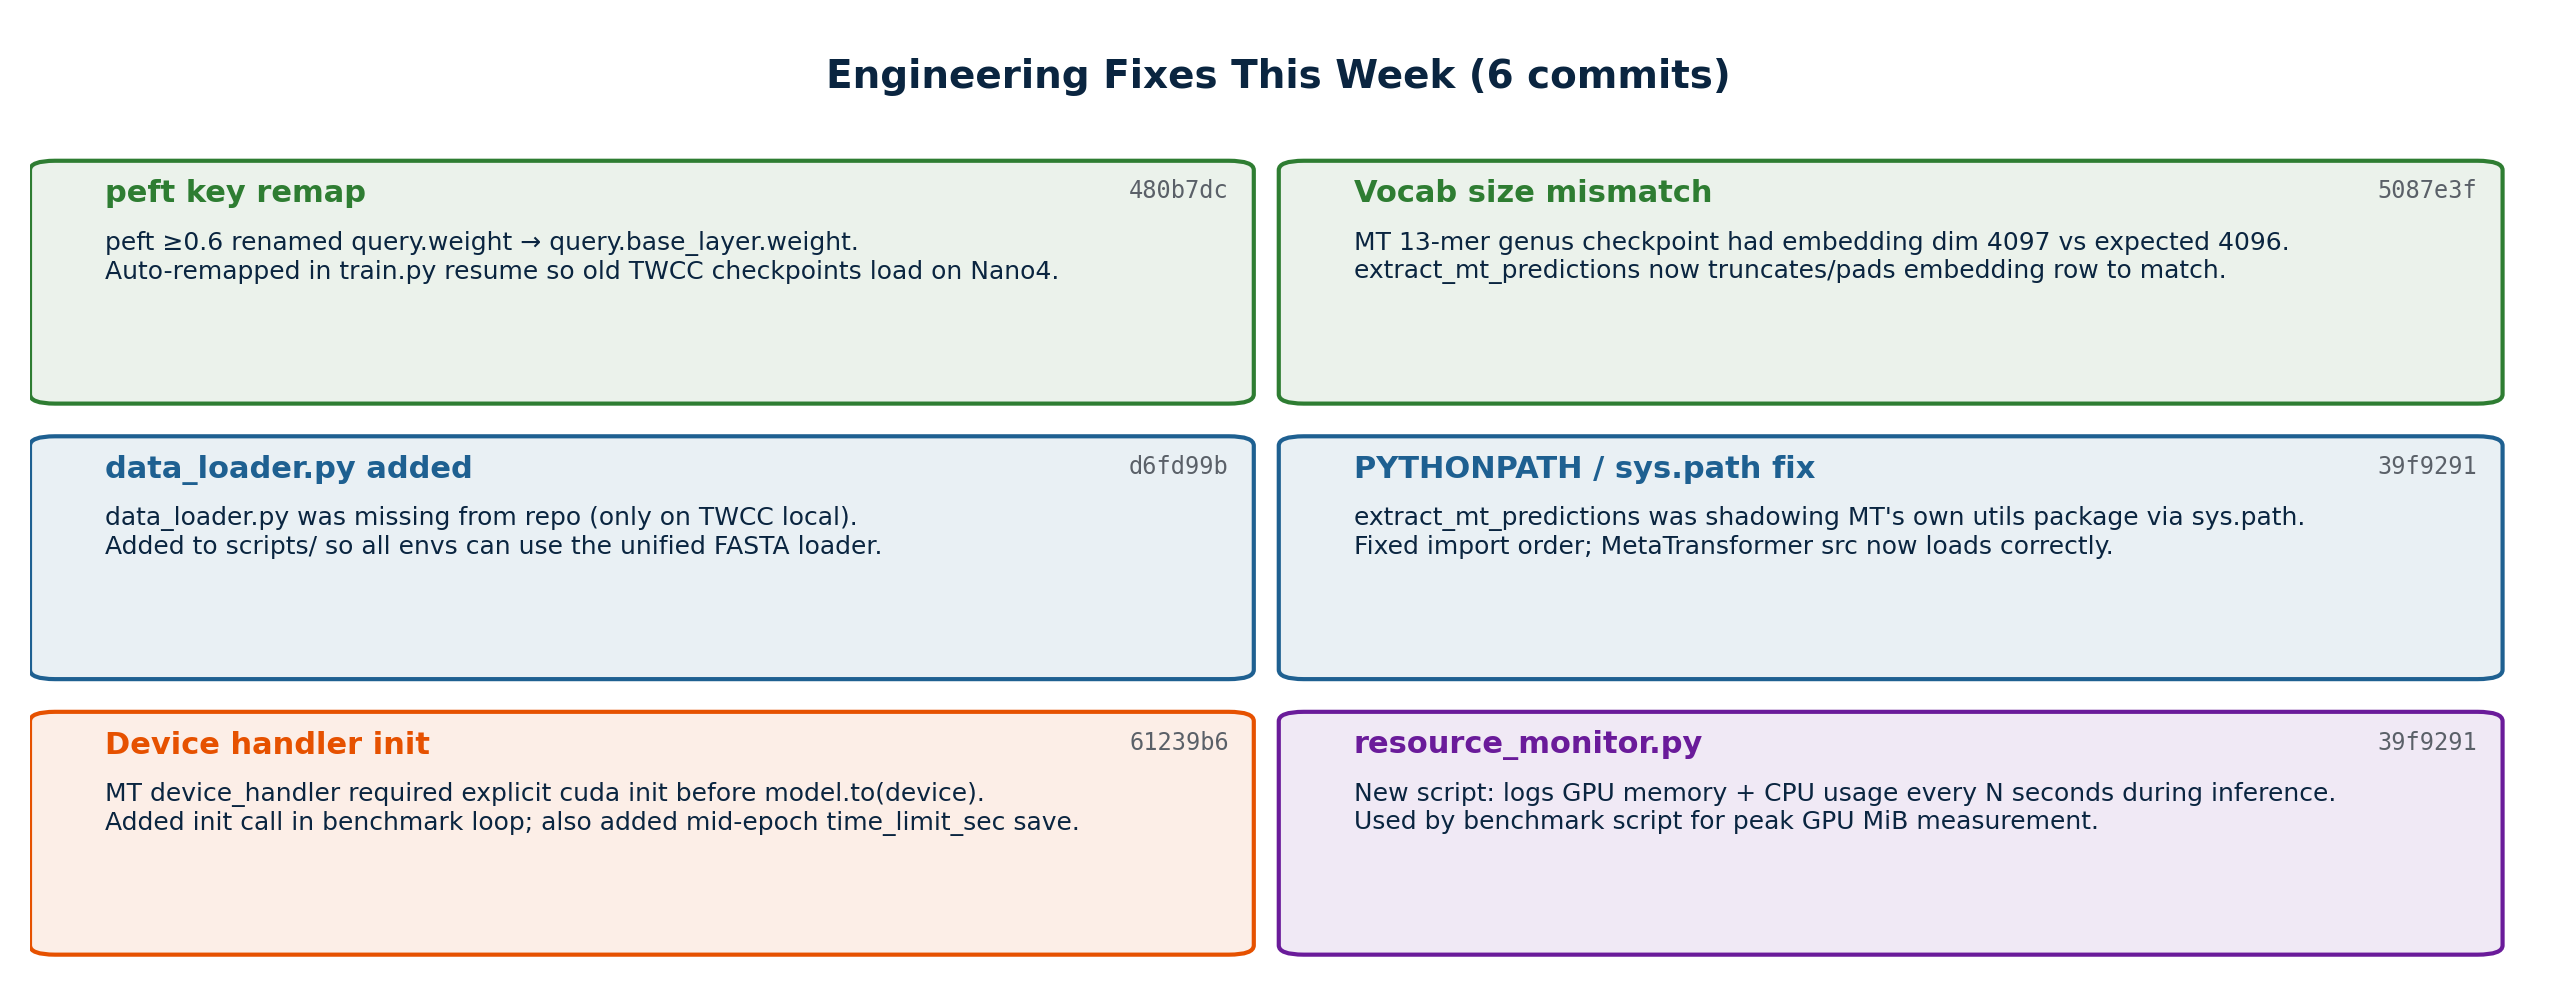
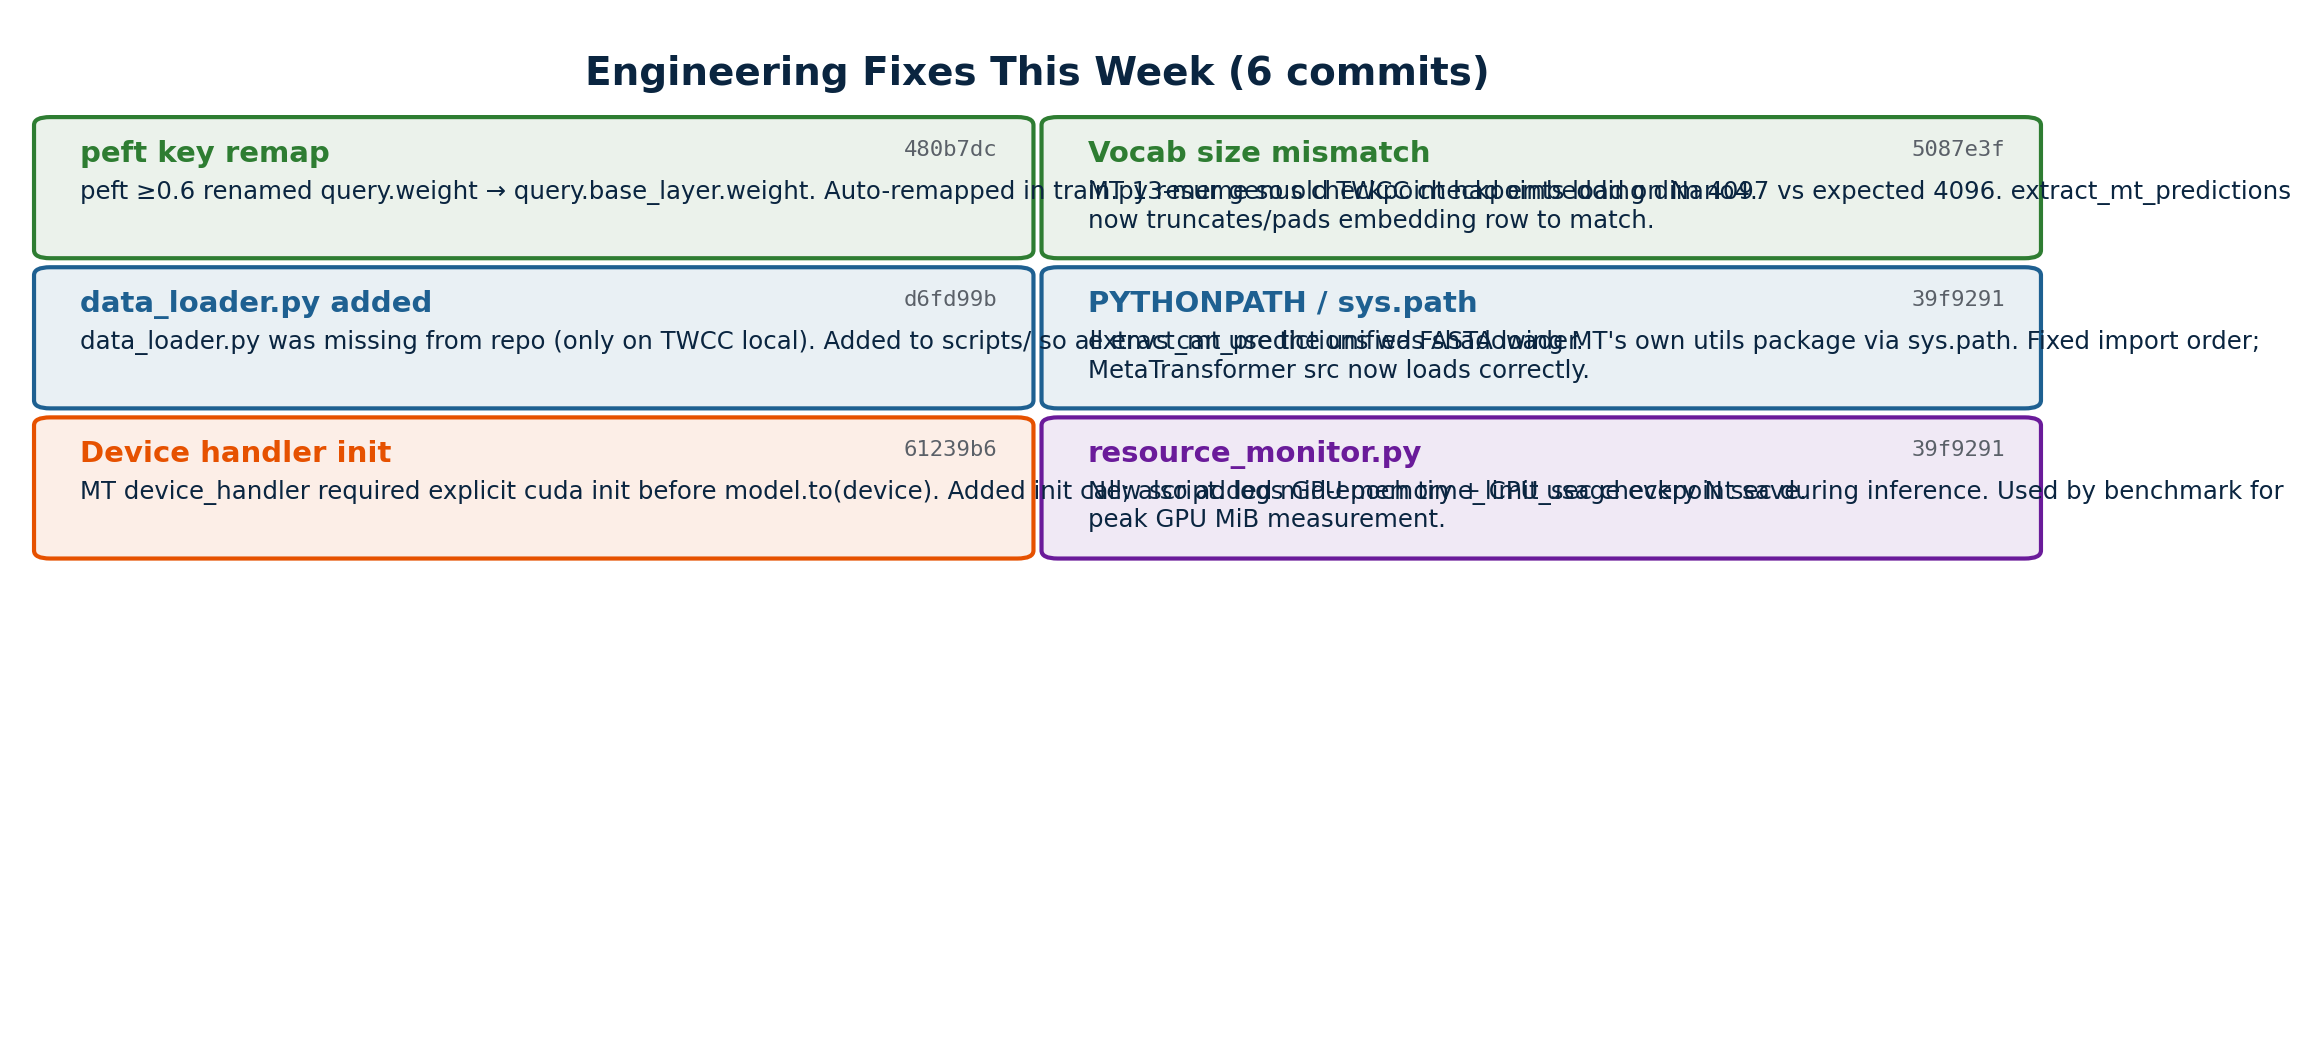
Fix slide figures: wider spacing in timeline/engineering/decisions

diff --git a/docs/slides/make_meeting_2026_0609.py b/docs/slides/make_meeting_2026_0609.py
@@ -48,29 +48,36 @@ plt.rcParams.update({"font.family":"DejaVu Sans","font.size":11,
 # ═══════════════════════════════════════════════════════════════════════════════
 
 def fig_timeline():
-    fig, ax = plt.subplots(figsize=(13, 3.8))
-    ax.set_xlim(0, 13); ax.set_ylim(0, 4.2); ax.axis("off")
-    ax.add_patch(Rectangle((0.4, 1.9), 12.2, 0.12, facecolor=NAVY))
+    # Alternating up/down labels to prevent horizontal crowding
+    fig, ax = plt.subplots(figsize=(13, 5.0))
+    ax.set_xlim(0, 13); ax.set_ylim(0, 5.5); ax.axis("off")
+    ax.add_patch(Rectangle((0.3, 2.5), 12.4, 0.13, facecolor=NAVY))
 
+    # (x, date, label, color, up=True means label above the line)
     events = [
-        (0.7,  "6/2",  "Advisor\nmeeting\n(deck 0602)", TEAL),
-        (2.2,  "6/2",  "Nano4 env\nsetup started", TEAL),
-        (3.5,  "6/3",  "Sanity check\nPASSED ✓\n(Job 71907)", GREEN),
-        (5.0,  "6/3",  "peft compat\nfix applied", ORANGE),
-        (6.3,  "6/5",  "DNABERT-2\nNano4 script\nready", GREEN),
-        (7.7,  "6/6",  "MT benchmark\nscript ready\n(6 models)", GREEN),
-        (9.0,  "6/6",  "vocab / device\nbug fixes", ORANGE),
-        (10.5, "6/7",  "data_loader +\nresource_monitor\nadded", GREEN),
-        (12.0, "6/9",  "TODAY\nFire P0\njobs", GOLD),
+        (0.8,  "6/2",  "Advisor meeting\n(deck 0602)", TEAL,   True),
+        (2.4,  "6/2",  "Nano4 env\nsetup started",     TEAL,   False),
+        (4.0,  "6/3",  "Sanity check\nPASSED ✓",       GREEN,  True),
+        (5.6,  "6/3-5","peft / vocab /\ndevice fixes",  ORANGE, False),
+        (7.2,  "6/5",  "DNABERT-2\nscript ready",      GREEN,  True),
+        (8.8,  "6/6",  "MT benchmark\nscript ready",   GREEN,  False),
+        (10.4, "6/7",  "data_loader +\nresource_monitor", TEAL, True),
+        (12.0, "6/9",  "TODAY\nFire P0", GOLD, False),
     ]
-    for x, date, label, color in events:
-        ax.scatter(x, 1.96, s=180, color=color, zorder=4, edgecolor="white", linewidth=2)
-        ax.text(x, 2.65, date, ha="center", fontsize=10, fontweight="bold", color=color)
-        ax.text(x, 1.35, label, ha="center", fontsize=8, color=NAVY, va="top")
+    for x, date, label, color, up in events:
+        ax.scatter(x, 2.565, s=200, color=color, zorder=4, edgecolor="white", linewidth=2)
+        if up:
+            ax.text(x, 3.05, date,  ha="center", fontsize=10, fontweight="bold", color=color)
+            ax.text(x, 3.45, label, ha="center", fontsize=9,  color=NAVY, va="bottom")
+            ax.plot([x, x], [2.62, 3.0], color=color, lw=1, alpha=0.5)
+        else:
+            ax.text(x, 2.10, date,  ha="center", fontsize=10, fontweight="bold", color=color)
+            ax.text(x, 1.95, label, ha="center", fontsize=9,  color=NAVY, va="top")
+            ax.plot([x, x], [2.50, 2.15], color=color, lw=1, alpha=0.5)
 
-    ax.text(6.5, 3.9, "Progress Timeline · 6/2 advisor meeting → 6/9 (today)",
+    ax.text(6.5, 5.2, "Progress Timeline · 6/2 advisor meeting → 6/9 (today)",
             ha="center", fontsize=13, fontweight="bold", color=NAVY)
-    plt.savefig(TMP/"timeline.png"); plt.close()
+    plt.savefig(TMP/"timeline.png", bbox_inches="tight"); plt.close()
 
 
 def fig_nano4_status():
@@ -194,8 +201,7 @@ def fig_dnabert2_plan():
     ax2.text(64.45+0.3, -0.7, "NT-v2\nbaseline", fontsize=8, color=TEAL, alpha=0.7)
     ax2.text(99, 3.1, "* estimate", fontsize=8, color=ORANGE)
 
-    plt.tight_layout()
-    plt.savefig(TMP/"dnabert2_plan.png"); plt.close()
+    plt.savefig(TMP/"dnabert2_plan.png", bbox_inches="tight"); plt.close()
 
 
 def fig_mt_benchmark():
@@ -267,102 +273,113 @@ def fig_mt_benchmark():
 
 
 def fig_engineering():
-    fig, ax = plt.subplots(figsize=(13, 5))
+    fig, ax = plt.subplots(figsize=(13, 6.5))
     ax.axis("off"); ax.set_xlim(0,1); ax.set_ylim(0,1)
-    ax.text(0.5, 0.97, "Engineering Fixes This Week (6 commits)", ha="center",
+    ax.text(0.5, 0.975, "Engineering Fixes This Week (6 commits)", ha="center",
             fontsize=14, fontweight="bold", color=NAVY, va="top")
 
     fixes = [
-        (GREEN,  "peft key remap",
-                 "480b7dc",
-                 "peft ≥0.6 renamed query.weight → query.base_layer.weight.\n"
+        (GREEN,  "peft key remap",        "480b7dc",
+                 "peft ≥0.6 renamed query.weight → query.base_layer.weight. "
                  "Auto-remapped in train.py resume so old TWCC checkpoints load on Nano4."),
-        (GREEN,  "Vocab size mismatch",
-                 "5087e3f",
-                 "MT 13-mer genus checkpoint had embedding dim 4097 vs expected 4096.\n"
+        (GREEN,  "Vocab size mismatch",   "5087e3f",
+                 "MT 13-mer genus checkpoint had embedding dim 4097 vs expected 4096. "
                  "extract_mt_predictions now truncates/pads embedding row to match."),
-        (TEAL,   "data_loader.py added",
-                 "d6fd99b",
-                 "data_loader.py was missing from repo (only on TWCC local).\n"
+        (TEAL,   "data_loader.py added",  "d6fd99b",
+                 "data_loader.py was missing from repo (only on TWCC local). "
                  "Added to scripts/ so all envs can use the unified FASTA loader."),
-        (TEAL,   "PYTHONPATH / sys.path fix",
-                 "39f9291",
-                 "extract_mt_predictions was shadowing MT's own utils package via sys.path.\n"
+        (TEAL,   "PYTHONPATH / sys.path", "39f9291",
+                 "extract_mt_predictions was shadowing MT's own utils package via sys.path. "
                  "Fixed import order; MetaTransformer src now loads correctly."),
-        (ORANGE, "Device handler init",
-                 "61239b6",
-                 "MT device_handler required explicit cuda init before model.to(device).\n"
-                 "Added init call in benchmark loop; also added mid-epoch time_limit_sec save."),
-        (PURPLE, "resource_monitor.py",
-                 "39f9291",
-                 "New script: logs GPU memory + CPU usage every N seconds during inference.\n"
-                 "Used by benchmark script for peak GPU MiB measurement."),
+        (ORANGE, "Device handler init",   "61239b6",
+                 "MT device_handler required explicit cuda init before model.to(device). "
+                 "Added init call; also added mid-epoch time_limit_sec checkpoint save."),
+        (PURPLE, "resource_monitor.py",   "39f9291",
+                 "New script: logs GPU memory + CPU usage every N sec during inference. "
+                 "Used by benchmark for peak GPU MiB measurement."),
     ]
 
-    cols = [(0.01, 0.5), (0.51, 1.00)]
+    # 2-column layout with generous spacing
+    ITEM_H   = 0.125   # normalized height per item box
+    ROW_GAP  = 0.025   # gap between rows
+    ROW_STEP = ITEM_H + ROW_GAP
+    TOP_Y    = 0.905   # y of first row top
+
+    cols = [(0.01, 0.49), (0.51, 0.99)]
     for i, (color, title, commit, body) in enumerate(fixes):
         col_x, col_end = cols[i % 2]
         row = i // 2
-        y_top = 0.83 - row * 0.295
-        w = col_end - col_x - 0.02
-        ax.add_patch(FancyBboxPatch((col_x, y_top-0.22), w, 0.24,
-                                     boxstyle="round,pad=0.01",
-                                     facecolor=color+"18", edgecolor=color, linewidth=1.5))
-        ax.text(col_x+0.02, y_top+0.01, title, fontsize=11, color=color,
-                fontweight="bold", va="top")
-        ax.text(col_end-0.02, y_top+0.01, commit, fontsize=8.5, color=GRAY,
-                fontweight="normal", va="top", ha="right", family="monospace")
-        ax.text(col_x+0.02, y_top-0.045, body, fontsize=9, color=NAVY, va="top")
+        y_top = TOP_Y - row * ROW_STEP
+        w = col_end - col_x
 
-    plt.tight_layout()
-    plt.savefig(TMP/"engineering.png"); plt.close()
+        ax.add_patch(FancyBboxPatch((col_x, y_top - ITEM_H), w, ITEM_H,
+                                     boxstyle="round,pad=0.008",
+                                     facecolor=color+"18", edgecolor=color, linewidth=1.5))
+        # Title + commit hash on same line
+        ax.text(col_x+0.015, y_top - 0.015, title, fontsize=10.5, color=color,
+                fontweight="bold", va="top")
+        ax.text(col_end - 0.01, y_top - 0.015, commit, fontsize=8, color=GRAY,
+                fontweight="normal", va="top", ha="right", family="monospace")
+        # Body (single line, no \n)
+        ax.text(col_x+0.015, y_top - 0.055, body, fontsize=8.8, color=NAVY,
+                va="top", wrap=True)
+
+    plt.savefig(TMP/"engineering.png", bbox_inches="tight"); plt.close()
 
 
 def fig_decisions():
-    fig, ax = plt.subplots(figsize=(13, 5.5))
+    fig, ax = plt.subplots(figsize=(13, 6.5))
     ax.axis("off"); ax.set_xlim(0,1); ax.set_ylim(0,1)
-    ax.text(0.5, 0.97, "Decision Board · 6/9", ha="center",
+    ax.text(0.5, 0.975, "Decision Board · 6/9", ha="center",
             fontsize=14, fontweight="bold", color=NAVY, va="top")
 
-    sections = [
-        ("RESOLVED", GREEN, [
-            ("TWCC budget crisis",
-             "Nano4 H200 free trial covers all pending compute.\n"
-             "TWCC top-up NOT needed for thesis experiments."),
-            ("Nano4 onboarding",
-             "Sanity check passed (Job 71907). Pipeline identical to TWCC.\n"
-             "All DNABERT-2 + MT benchmark jobs can run here."),
-        ]),
-        ("PENDING — need advisor input", ORANGE, [
-            ("Q1: DNABERT-1 50M",
-             "Extremely slow: 11.7 hr/epoch → ~350 dev jobs for 30 epochs.\n"
-             "Recommendation: cancel. 5M checkpoint (61.78% RC TTA) sufficient for thesis."),
-            ("Q2: MT 13-mer hier retraining",
-             "Taiwana-2 checkpoint corrupted. ~1-2 days on V100 to retrain.\n"
-             "Adds +2-3 pp row to Table 4.29. Decision before 6/15 defense."),
-            ("Q3: HMP real-dataset inference",
-             "Download SRR072232 mock community (~1-2 GB), run NT-v2 sp_v4.\n"
-             "Adds real-world validation section. Journal paper priority?"),
-        ]),
+    # Each item: (title, body_line1, body_line2_or_None, color)
+    resolved = [
+        ("✓  TWCC budget crisis",
+         "Nano4 H200 free trial covers all pending compute — TWCC top-up NOT needed.",
+         None, GREEN),
+        ("✓  Nano4 onboarding",
+         "Sanity check PASSED (Job 71907). Pipeline identical to TWCC baseline (17.83%).",
+         None, GREEN),
+    ]
+    pending = [
+        ("Q1  DNABERT-1 50M",
+         "11.7 hr/epoch → ~350 dev jobs. Recommend: cancel.",
+         "5M checkpoint (61.78% RC TTA) is sufficient for thesis comparison.", ORANGE),
+        ("Q2  MT 13-mer hier retraining",
+         "Checkpoint corrupted on Taiwana-2. ~1-2 days V100 to retrain.",
+         "Adds +2-3 pp to Table 4.29. Decide before 6/15 defense.", ORANGE),
+        ("Q3  HMP real-dataset inference",
+         "Download SRR072232 mock community (~1-2 GB), run NT-v2 sp_v4.",
+         "Pearson r vs known abundance → real-world validation for journal.", ORANGE),
     ]
 
-    y = 0.87
-    for section_title, color, items in sections:
-        ax.add_patch(Rectangle((0, y-0.02), 1, 0.03, facecolor=color+"33", edgecolor="none"))
-        ax.text(0.02, y-0.005, section_title, fontsize=11, color=color,
-                fontweight="bold", va="center")
-        y -= 0.05
-        for title, body in items:
-            ax.add_patch(FancyBboxPatch((0.02, y-0.095), 0.96, 0.1,
-                                         boxstyle="round,pad=0.01",
-                                         facecolor=color+"12", edgecolor=color+"66", linewidth=1))
-            ax.text(0.05, y-0.015, title, fontsize=10.5, color=NAVY, fontweight="bold")
-            ax.text(0.05, y-0.048, body, fontsize=9.5, color=GRAY)
-            y -= 0.115
-        y -= 0.02
+    ITEM_H  = 0.115
+    ITEM_GAP = 0.015
+    STEP    = ITEM_H + ITEM_GAP
+    HDR_H   = 0.045
 
-    plt.tight_layout()
-    plt.savefig(TMP/"decisions.png"); plt.close()
+    def draw_section(title, color, items, y_start):
+        ax.add_patch(Rectangle((0, y_start - HDR_H), 1, HDR_H,
+                                facecolor=color+"33", edgecolor="none"))
+        ax.text(0.02, y_start - HDR_H/2, title, fontsize=11, color=color,
+                fontweight="bold", va="center")
+        y = y_start - HDR_H - ITEM_GAP
+        for t, b1, b2, c in items:
+            ax.add_patch(FancyBboxPatch((0.01, y - ITEM_H), 0.98, ITEM_H,
+                                         boxstyle="round,pad=0.008",
+                                         facecolor=c+"12", edgecolor=c+"88", linewidth=1.2))
+            ax.text(0.03, y - 0.018, t,  fontsize=10.5, color=NAVY, fontweight="bold", va="top")
+            ax.text(0.03, y - 0.052, b1, fontsize=9.5,  color=GRAY, va="top")
+            if b2:
+                ax.text(0.03, y - 0.081, b2, fontsize=9.5, color=GRAY, va="top")
+            y -= STEP
+        return y - ITEM_GAP
+
+    y = draw_section("RESOLVED ✓", GREEN, resolved, 0.935)
+    draw_section("PENDING — need advisor input today", ORANGE, pending, y)
+
+    plt.savefig(TMP/"decisions.png", bbox_inches="tight"); plt.close()
 
 
 def fig_next_steps():